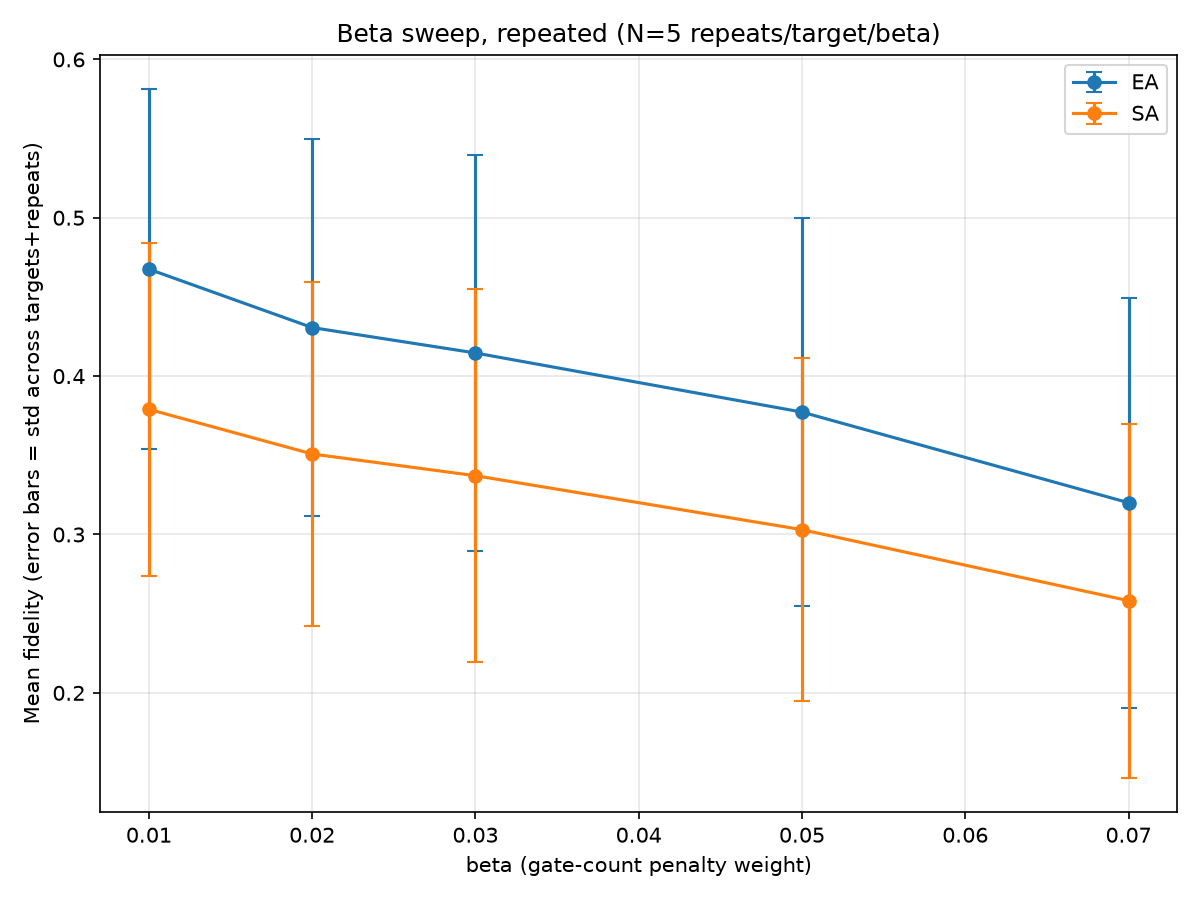
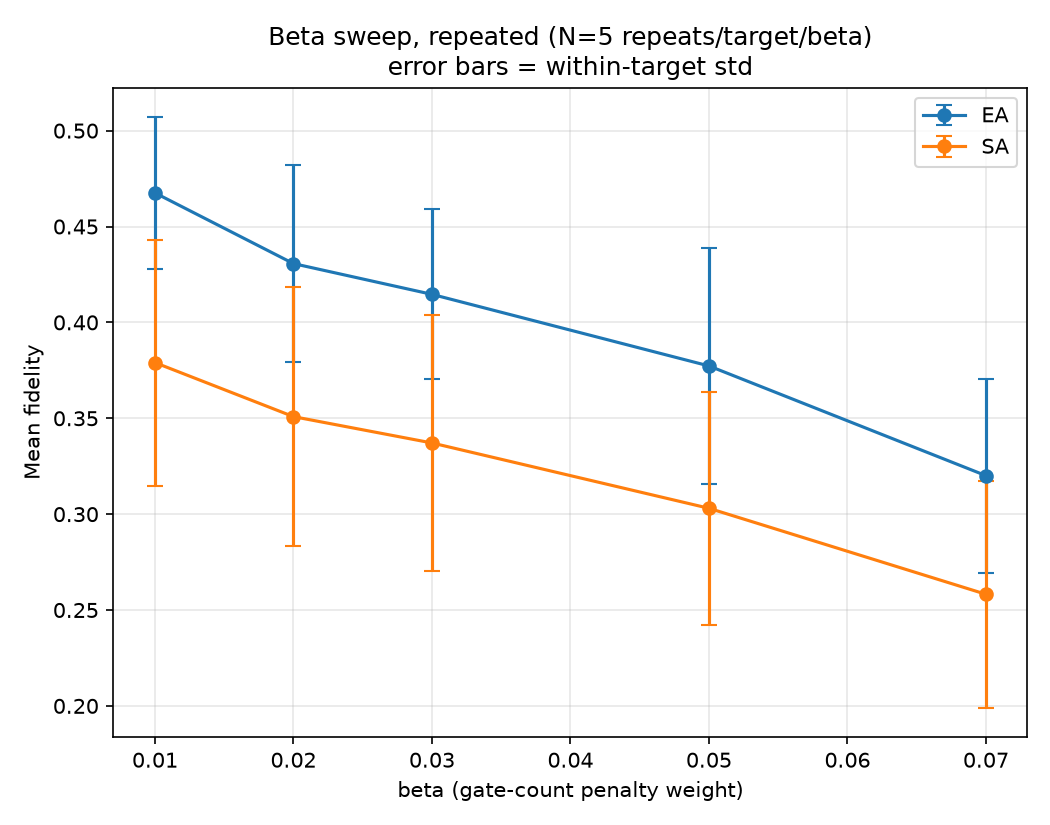
fix(sweep): decompose error bars into within-/across-target std

diff --git a/experiments/sweep_beta_repeated.py b/experiments/sweep_beta_repeated.py
@@ -155,6 +155,26 @@ def save_summary_csv(rows, path):
     """
     Aggregates raw rows into mean/std per (beta, algorithm), across all
     targets and repeats (n_samples = N_TARGETS * N_REPEATS).
+
+    Reports three different std values, because "std_fidelity" alone
+    (pooled across all targets and repeats) conflates two different
+    sources of variation: how much a given target's result varies across
+    repeated runs (run-to-run noise) versus how much target difficulty
+    itself varies (across-target variation). These are decomposed
+    separately, matching the method already used for the main comparison
+    table (research_log.md Entry 9 / experiments.tex Table 5.2):
+
+        within_target_std: mean, across targets, of the std of that
+            target's N_REPEATS fidelity values -- the run-to-run noise.
+        across_target_std: std, across targets, of each target's mean
+            fidelity -- how much target difficulty varies.
+
+    Claims like "the EA/SA gap exceeds run-to-run noise" (Entry 9) or
+    "SA-floor's std is roughly 2x SA-standard's" (Entry 11) refer
+    specifically to within_target_std, not the pooled std_fidelity --
+    see plot_comparison() below, which plots within_target_std as the
+    error bar for this reason. std_fidelity is kept in the CSV for
+    reference.
     """
     summary_rows = []
     for beta in BETA_VALUES:
@@ -162,13 +182,29 @@ def save_summary_csv(rows, path):
             vals = [r for r in rows if r["beta"] == beta and r["algorithm"] == algo]
             fids = [r["fidelity"] for r in vals]
             gates = [r["gate_count"] for r in vals]
+
+            # Decompose variance into within-target and across-target
+            # components, matching the main comparison table's method.
+            target_idxs = sorted(set(r["target_idx"] for r in vals))
+            per_target_fids = {
+                t: [r["fidelity"] for r in vals if r["target_idx"] == t]
+                for t in target_idxs
+            }
+            within_stds = [np.std(v) for v in per_target_fids.values() if len(v) > 1]
+            within_target_std = float(np.mean(within_stds)) if within_stds else float("nan")
+            target_means = [np.mean(v) for v in per_target_fids.values()]
+            across_target_std = float(np.std(target_means))
+
             summary_rows.append({
                 "beta": beta, "algorithm": algo, "n_samples": len(fids),
                 "mean_fidelity": np.mean(fids), "std_fidelity": np.std(fids),
+                "within_target_std": within_target_std,
+                "across_target_std": across_target_std,
                 "mean_gate_count": np.mean(gates), "std_gate_count": np.std(gates),
             })
     fieldnames = ["beta", "algorithm", "n_samples", "mean_fidelity",
-                  "std_fidelity", "mean_gate_count", "std_gate_count"]
+                  "std_fidelity", "within_target_std", "across_target_std",
+                  "mean_gate_count", "std_gate_count"]
     with open(path, "w", newline="") as f:
         writer = csv.DictWriter(f, fieldnames=fieldnames)
         writer.writeheader()
@@ -192,24 +228,32 @@ def save_config(path):
 
 def plot_comparison(summary_rows, path):
     """
-    Plots mean fidelity vs. beta with error bars (std across
-    targets+repeats), EA vs. SA, in a single shared-axis chart.
+    Plots mean fidelity vs. beta with error bars, EA vs. SA, in a single
+    shared-axis chart.
+
+    Error bars show within_target_std (run-to-run noise for a fixed
+    target), not the pooled std across all targets+repeats -- see
+    save_summary_csv() above for the decomposition and the reasoning.
+    across_target_std is not plotted here; it belongs in the
+    accompanying table/text (Table 5.2) rather than in this figure, to
+    keep the chart to a single, unambiguous comparison.
     """
-    fig, ax = plt.subplots(figsize=(8, 6))
+    fig, ax = plt.subplots(figsize=(7, 5.5))
 
     for algo, color in (("EA", "tab:blue"), ("SA", "tab:orange")):
-        means, stds = [], []
+        means, within_stds = [], []
         for beta in BETA_VALUES:
             row = next(r for r in summary_rows
                        if r["beta"] == beta and r["algorithm"] == algo)
             means.append(row["mean_fidelity"])
-            stds.append(row["std_fidelity"])
-        ax.errorbar(BETA_VALUES, means, yerr=stds, fmt="o", linestyle="-",
+            within_stds.append(row["within_target_std"])
+        ax.errorbar(BETA_VALUES, means, yerr=within_stds, fmt="o-",
                     color=color, label=algo, capsize=4)
 
     ax.set_xlabel("beta (gate-count penalty weight)")
-    ax.set_ylabel("Mean fidelity (error bars = std across targets+repeats)")
-    ax.set_title(f"Beta sweep, repeated (N={N_REPEATS} repeats/target/beta)")
+    ax.set_ylabel("Mean fidelity")
+    ax.set_title(f"Beta sweep, repeated (N={N_REPEATS} repeats/target/beta)\n"
+                 f"error bars = within-target std")
     ax.legend()
     ax.grid(True, alpha=0.3)
     plt.tight_layout()

diff --git a/experiments/sweep_beta_floor_repeated.py b/experiments/sweep_beta_floor_repeated.py
@@ -190,6 +190,16 @@ def save_summary_csv(rows, path):
     """
     Aggregates raw rows into mean/std per (beta, algorithm, variant),
     across all targets and repeats (n_samples = N_TARGETS * N_REPEATS).
+
+    Also computes within_target_std and across_target_std separately
+    (see sweep_beta_repeated.py's save_summary_csv() for the detailed
+    rationale -- same decomposition, same reason). This matters
+    specifically for this experiment's headline claim, "SA-floor's std
+    is roughly 2x SA-standard's" (research_log.md Entry 11): that
+    comparison is about run-to-run instability for a fixed target, i.e.
+    within_target_std, not the pooled std across targets+repeats, which
+    is dominated by across-target difficulty variation and barely
+    reflects the 2x effect at all.
     """
     summary_rows = []
     for beta in BETA_VALUES:
@@ -200,14 +210,28 @@ def save_summary_csv(rows, path):
                         and r["fitness_variant"] == variant]
                 fids = [r["fidelity"] for r in vals]
                 gates = [r["gate_count"] for r in vals]
+
+                target_idxs = sorted(set(r["target_idx"] for r in vals))
+                per_target_fids = {
+                    t: [r["fidelity"] for r in vals if r["target_idx"] == t]
+                    for t in target_idxs
+                }
+                within_stds = [np.std(v) for v in per_target_fids.values() if len(v) > 1]
+                within_target_std = float(np.mean(within_stds)) if within_stds else float("nan")
+                target_means = [np.mean(v) for v in per_target_fids.values()]
+                across_target_std = float(np.std(target_means))
+
                 summary_rows.append({
                     "beta": beta, "algorithm": algo, "fitness_variant": variant,
                     "n_samples": len(fids),
                     "mean_fidelity": np.mean(fids), "std_fidelity": np.std(fids),
+                    "within_target_std": within_target_std,
+                    "across_target_std": across_target_std,
                     "mean_gate_count": np.mean(gates), "std_gate_count": np.std(gates),
                 })
     fieldnames = ["beta", "algorithm", "fitness_variant", "n_samples",
-                  "mean_fidelity", "std_fidelity", "mean_gate_count", "std_gate_count"]
+                  "mean_fidelity", "std_fidelity", "within_target_std",
+                  "across_target_std", "mean_gate_count", "std_gate_count"]
     with open(path, "w", newline="") as f:
         writer = csv.DictWriter(f, fieldnames=fieldnames)
         writer.writeheader()
@@ -232,30 +256,38 @@ def save_config(path):
 
 def plot_comparison(summary_rows, path):
     """
-    Plots mean fidelity vs. beta with error bars (std across
-    targets+repeats), standard vs. floor variant, one subplot per
-    algorithm.
+    Plots mean fidelity vs. beta with error bars, standard vs. floor
+    variant, one subplot per algorithm.
+
+    Error bars show within_target_std (run-to-run noise), not the pooled
+    std across targets+repeats -- see save_summary_csv() above for the
+    decomposition. This distinction matters most for this particular
+    chart: the "SA becomes unstable under the floor" finding is
+    specifically about within_target_std roughly doubling (research_log.md
+    Entry 11), an effect that the pooled std mostly hides behind the
+    much larger across-target variation.
     """
     fig, axes = plt.subplots(1, 2, figsize=(13, 5.5))
 
     for ax, algo in zip(axes, ("EA", "SA")):
         for variant, color, style in (("standard", "tab:blue", "-"),
                                        ("floor", "tab:red", "--")):
-            means, stds = [], []
+            means, within_stds = [], []
             for beta in BETA_VALUES:
                 row = next(r for r in summary_rows
                            if r["beta"] == beta and r["algorithm"] == algo
                            and r["fitness_variant"] == variant)
                 means.append(row["mean_fidelity"])
-                stds.append(row["std_fidelity"])
+                within_stds.append(row["within_target_std"])
             # fmt="o" -- marker only; the line style is set via linestyle
             # below, so the two aren't specified redundantly/conflictingly.
-            ax.errorbar(BETA_VALUES, means, yerr=stds, fmt="o",
+            ax.errorbar(BETA_VALUES, means, yerr=within_stds, fmt="o",
                         linestyle=style, color=color, label=variant,
                         capsize=4)
         ax.set_xlabel("beta")
-        ax.set_ylabel("Mean fidelity (error bars = std across targets+repeats)")
-        ax.set_title(f"{algo}: standard vs. floor fitness (repeated, N={N_REPEATS})")
+        ax.set_ylabel("Mean fidelity")
+        ax.set_title(f"{algo}: standard vs. floor fitness (repeated, N={N_REPEATS})\n"
+                     f"error bars = within-target std (run-to-run noise)")
         ax.legend()
         ax.grid(True, alpha=0.3)
 
